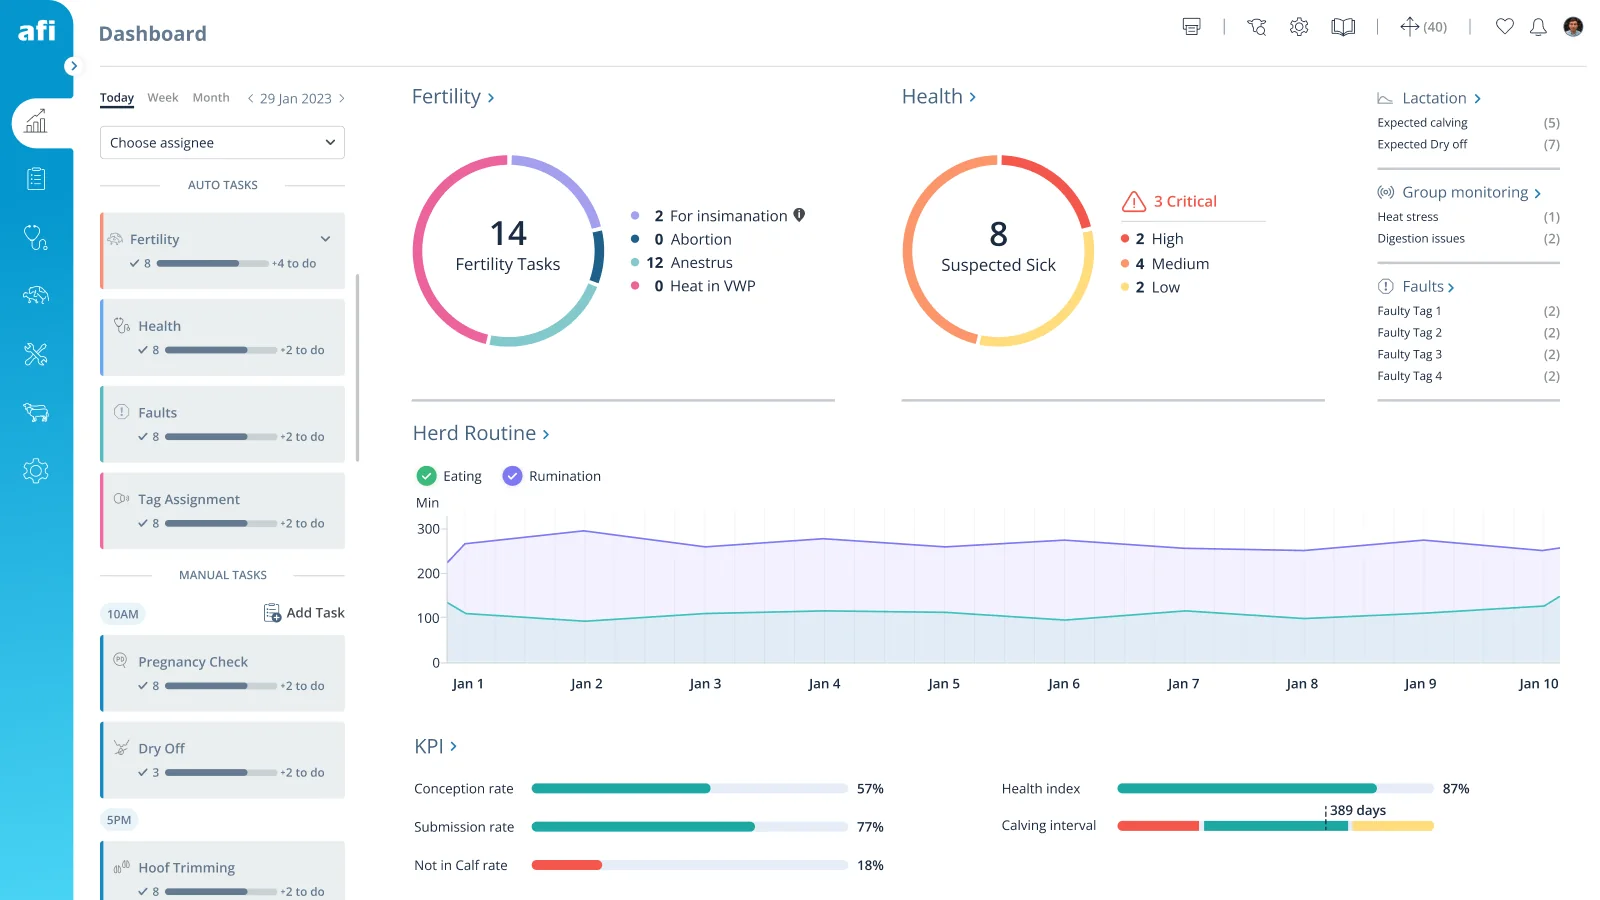
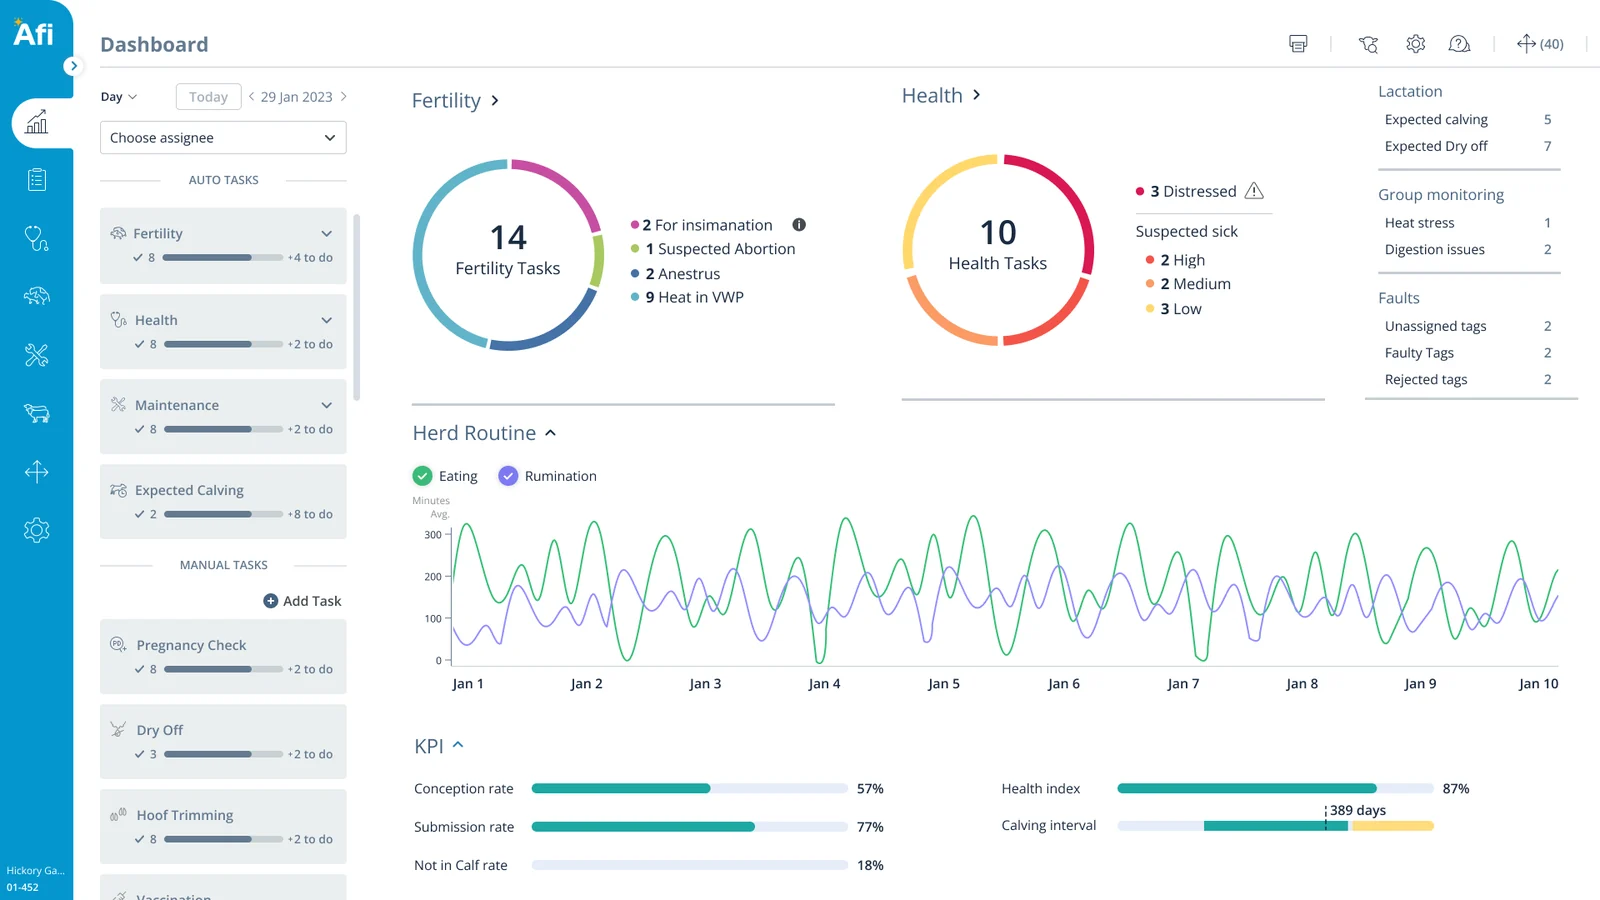
Floating laptop mock, Filtering drag slider, latest Herd screens
Claude-Session: https://claude.ai/code/session_01U3LnkADmWK6BWBvsiVpdjW

diff --git a/CHANGELOG.md b/CHANGELOG.md
@@ -1,5 +1,15 @@
 # Changelog
 
+## 2026-10-14 — Floating laptop, Filtering slider, new Herd screens
+
+- Cybersixgill: the laptop mockup is cut out (transparent background) and floats with
+  a soft shadow. `RefImage` has a new `bare` option for cut-out mockups.
+- Filtering: the Before/After switch is now the same drag-to-compare slider as Sentrycs
+  and Herd, drawn over the live prototype. Only the handle takes clicks, so the new
+  filter bar stays usable; tap "After" to slide fully open, "Before" to slide back.
+  Arrow keys move the handle. The headline still changes, following the bigger side.
+- Herd: Dashboard, Herd view and Settings replaced with the latest screens.
+
 ## 2026-10-14 — Flow chart, Cybersixgill and Herd
 
 **Template**
